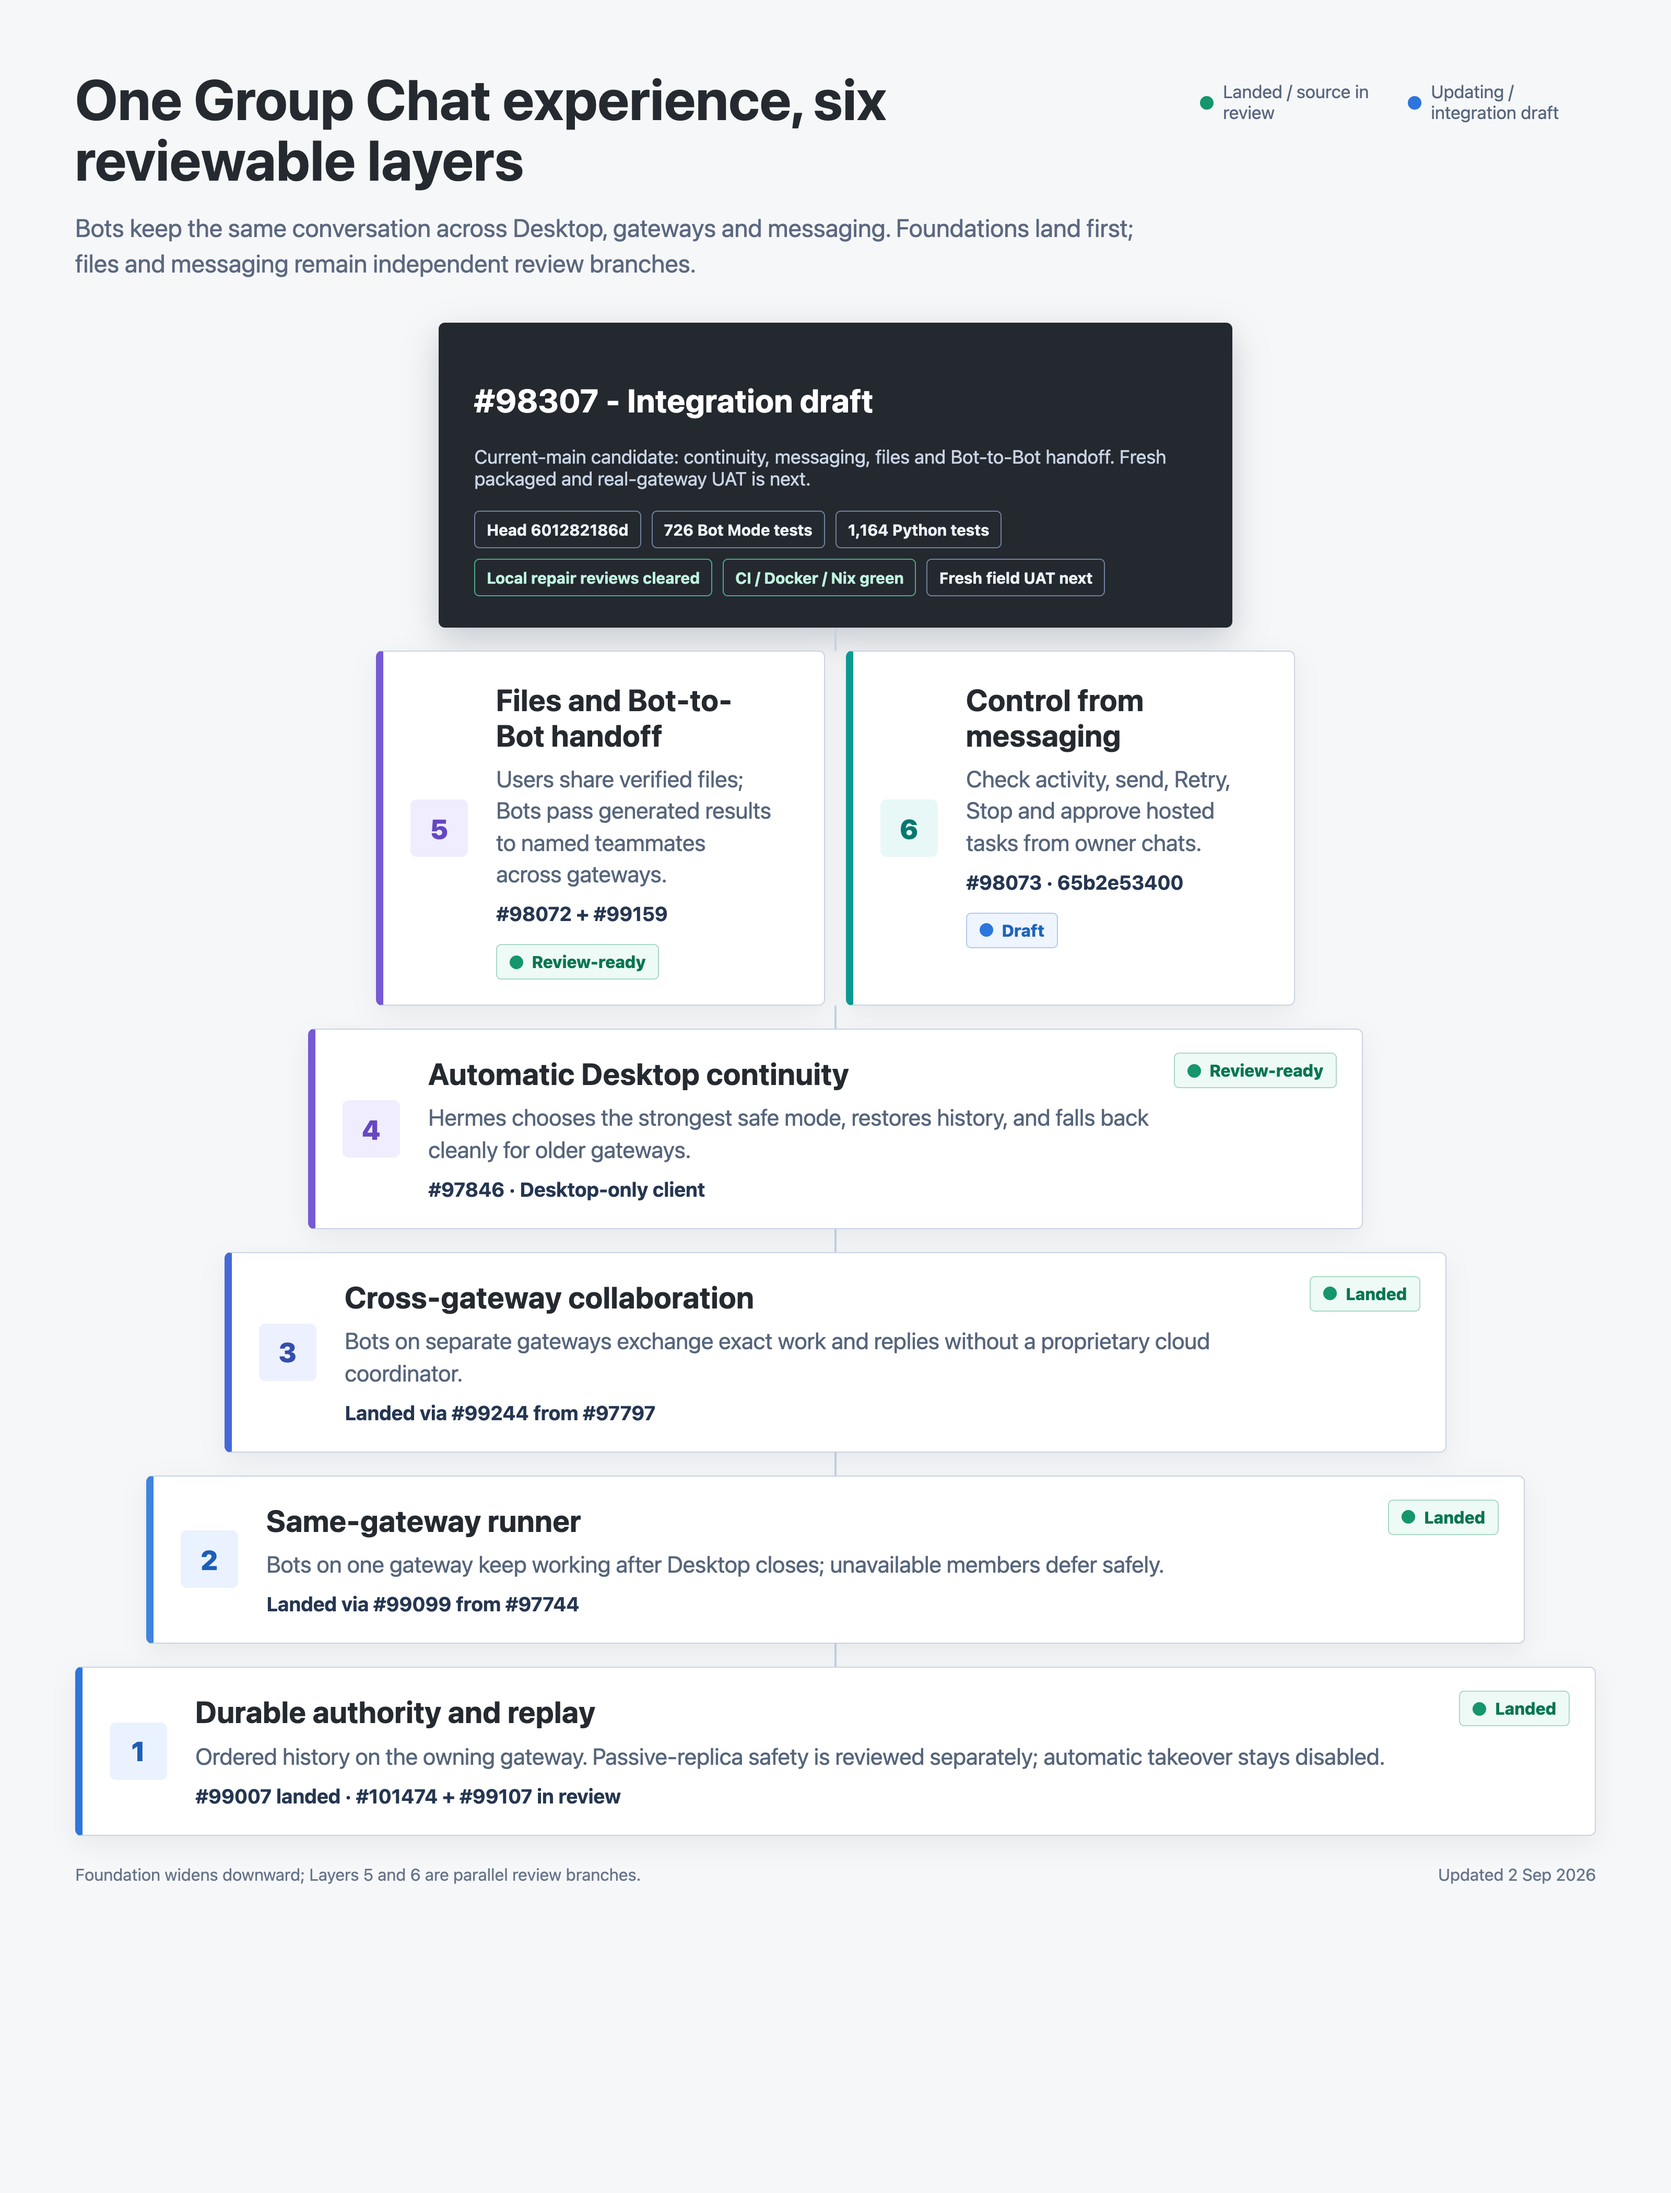
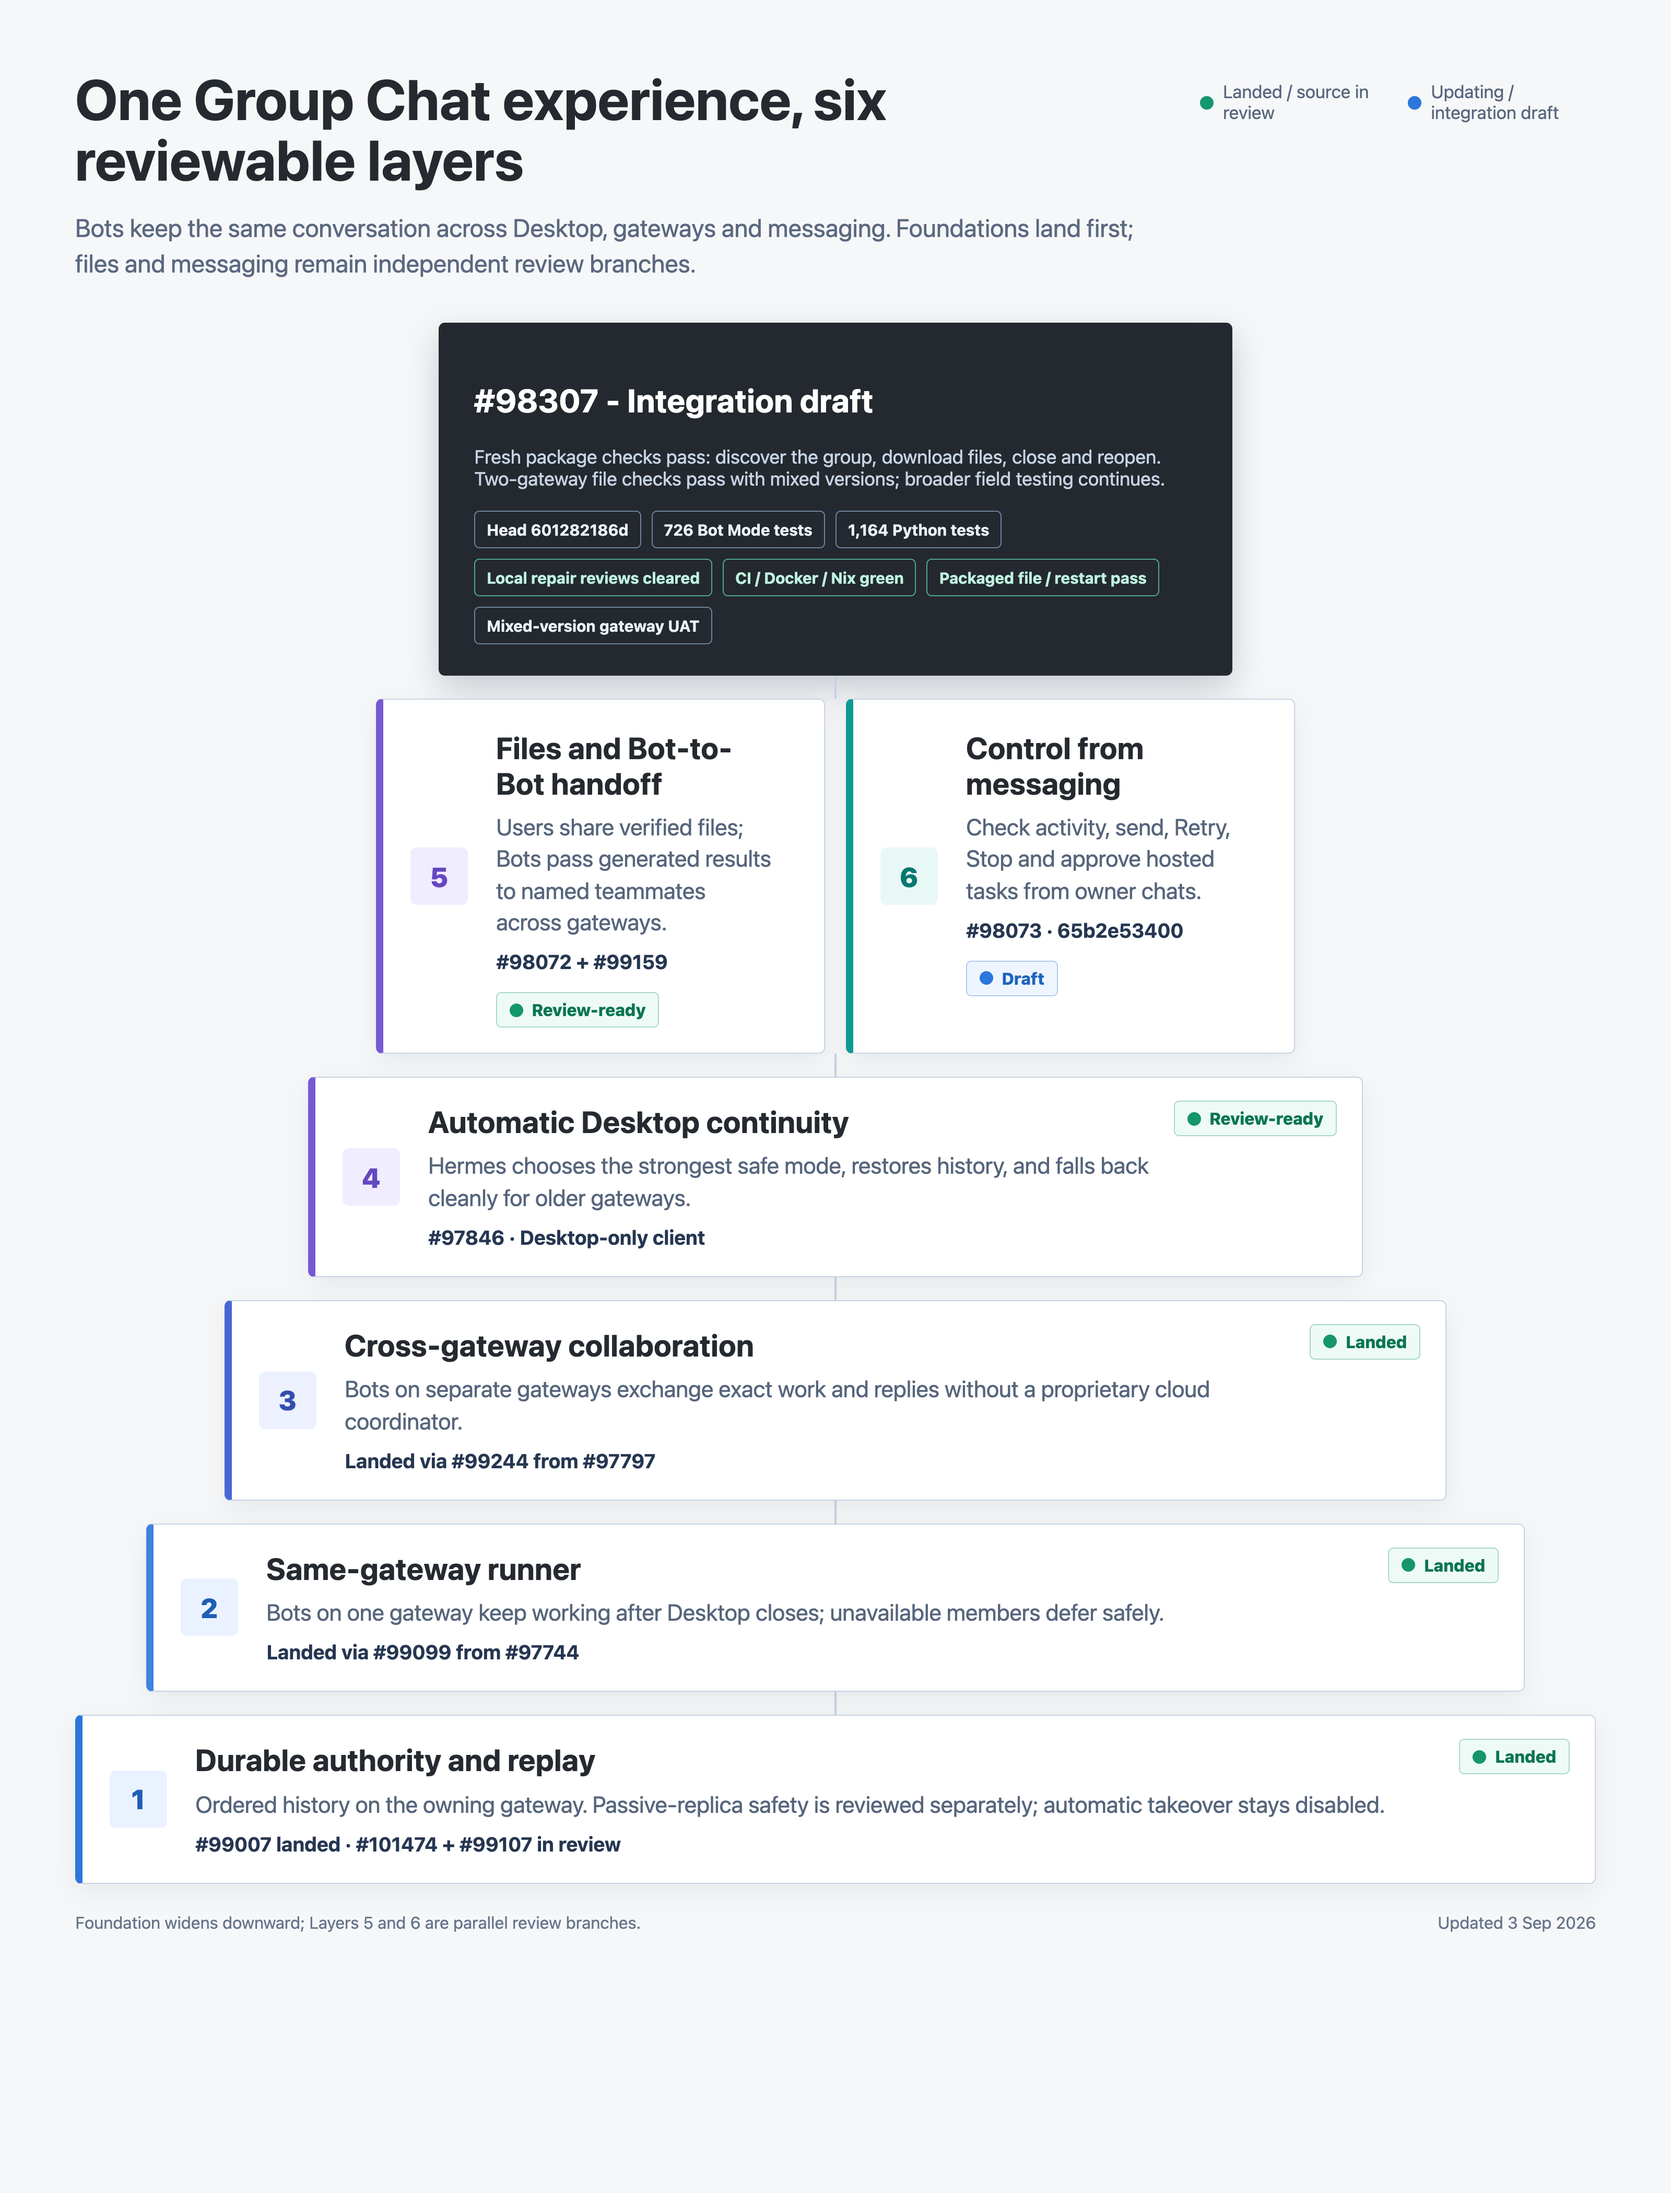
docs: record packaged Group Chat file and restart UAT

diff --git a/docs/issue-assets/group-chat-delivery-stack-20260902.html b/docs/issue-assets/group-chat-delivery-stack-20260902.html
@@ -89,14 +89,15 @@
   <section class="stack">
     <article class="integration">
       <h2>#98307 - Integration draft</h2>
-      <p>Current-main candidate: continuity, messaging, files and Bot-to-Bot handoff. Fresh packaged and real-gateway UAT is next.</p>
+      <p>Fresh package checks pass: discover the group, download files, close and reopen. Two-gateway file checks pass with mixed versions; broader field testing continues.</p>
       <div class="pills">
         <span class="pill">Head 601282186d</span>
         <span class="pill">726 Bot Mode tests</span>
         <span class="pill">1,164 Python tests</span>
         <span class="pill good">Local repair reviews cleared</span>
         <span class="pill good">CI / Docker / Nix green</span>
-        <span class="pill">Fresh field UAT next</span>
+        <span class="pill good">Packaged file / restart pass</span>
+        <span class="pill">Mixed-version gateway UAT</span>
       </div>
     </article>
     <div class="connector"></div>
@@ -166,7 +167,7 @@
       <span class="badge"><span class="dot green"></span>Landed</span>
     </article>
 
-    <footer><span>Foundation widens downward; Layers 5 and 6 are parallel review branches.</span><span>Updated 2 Sep 2026</span></footer>
+    <footer><span>Foundation widens downward; Layers 5 and 6 are parallel review branches.</span><span>Updated 3 Sep 2026</span></footer>
   </section>
 </main>
 </body>
